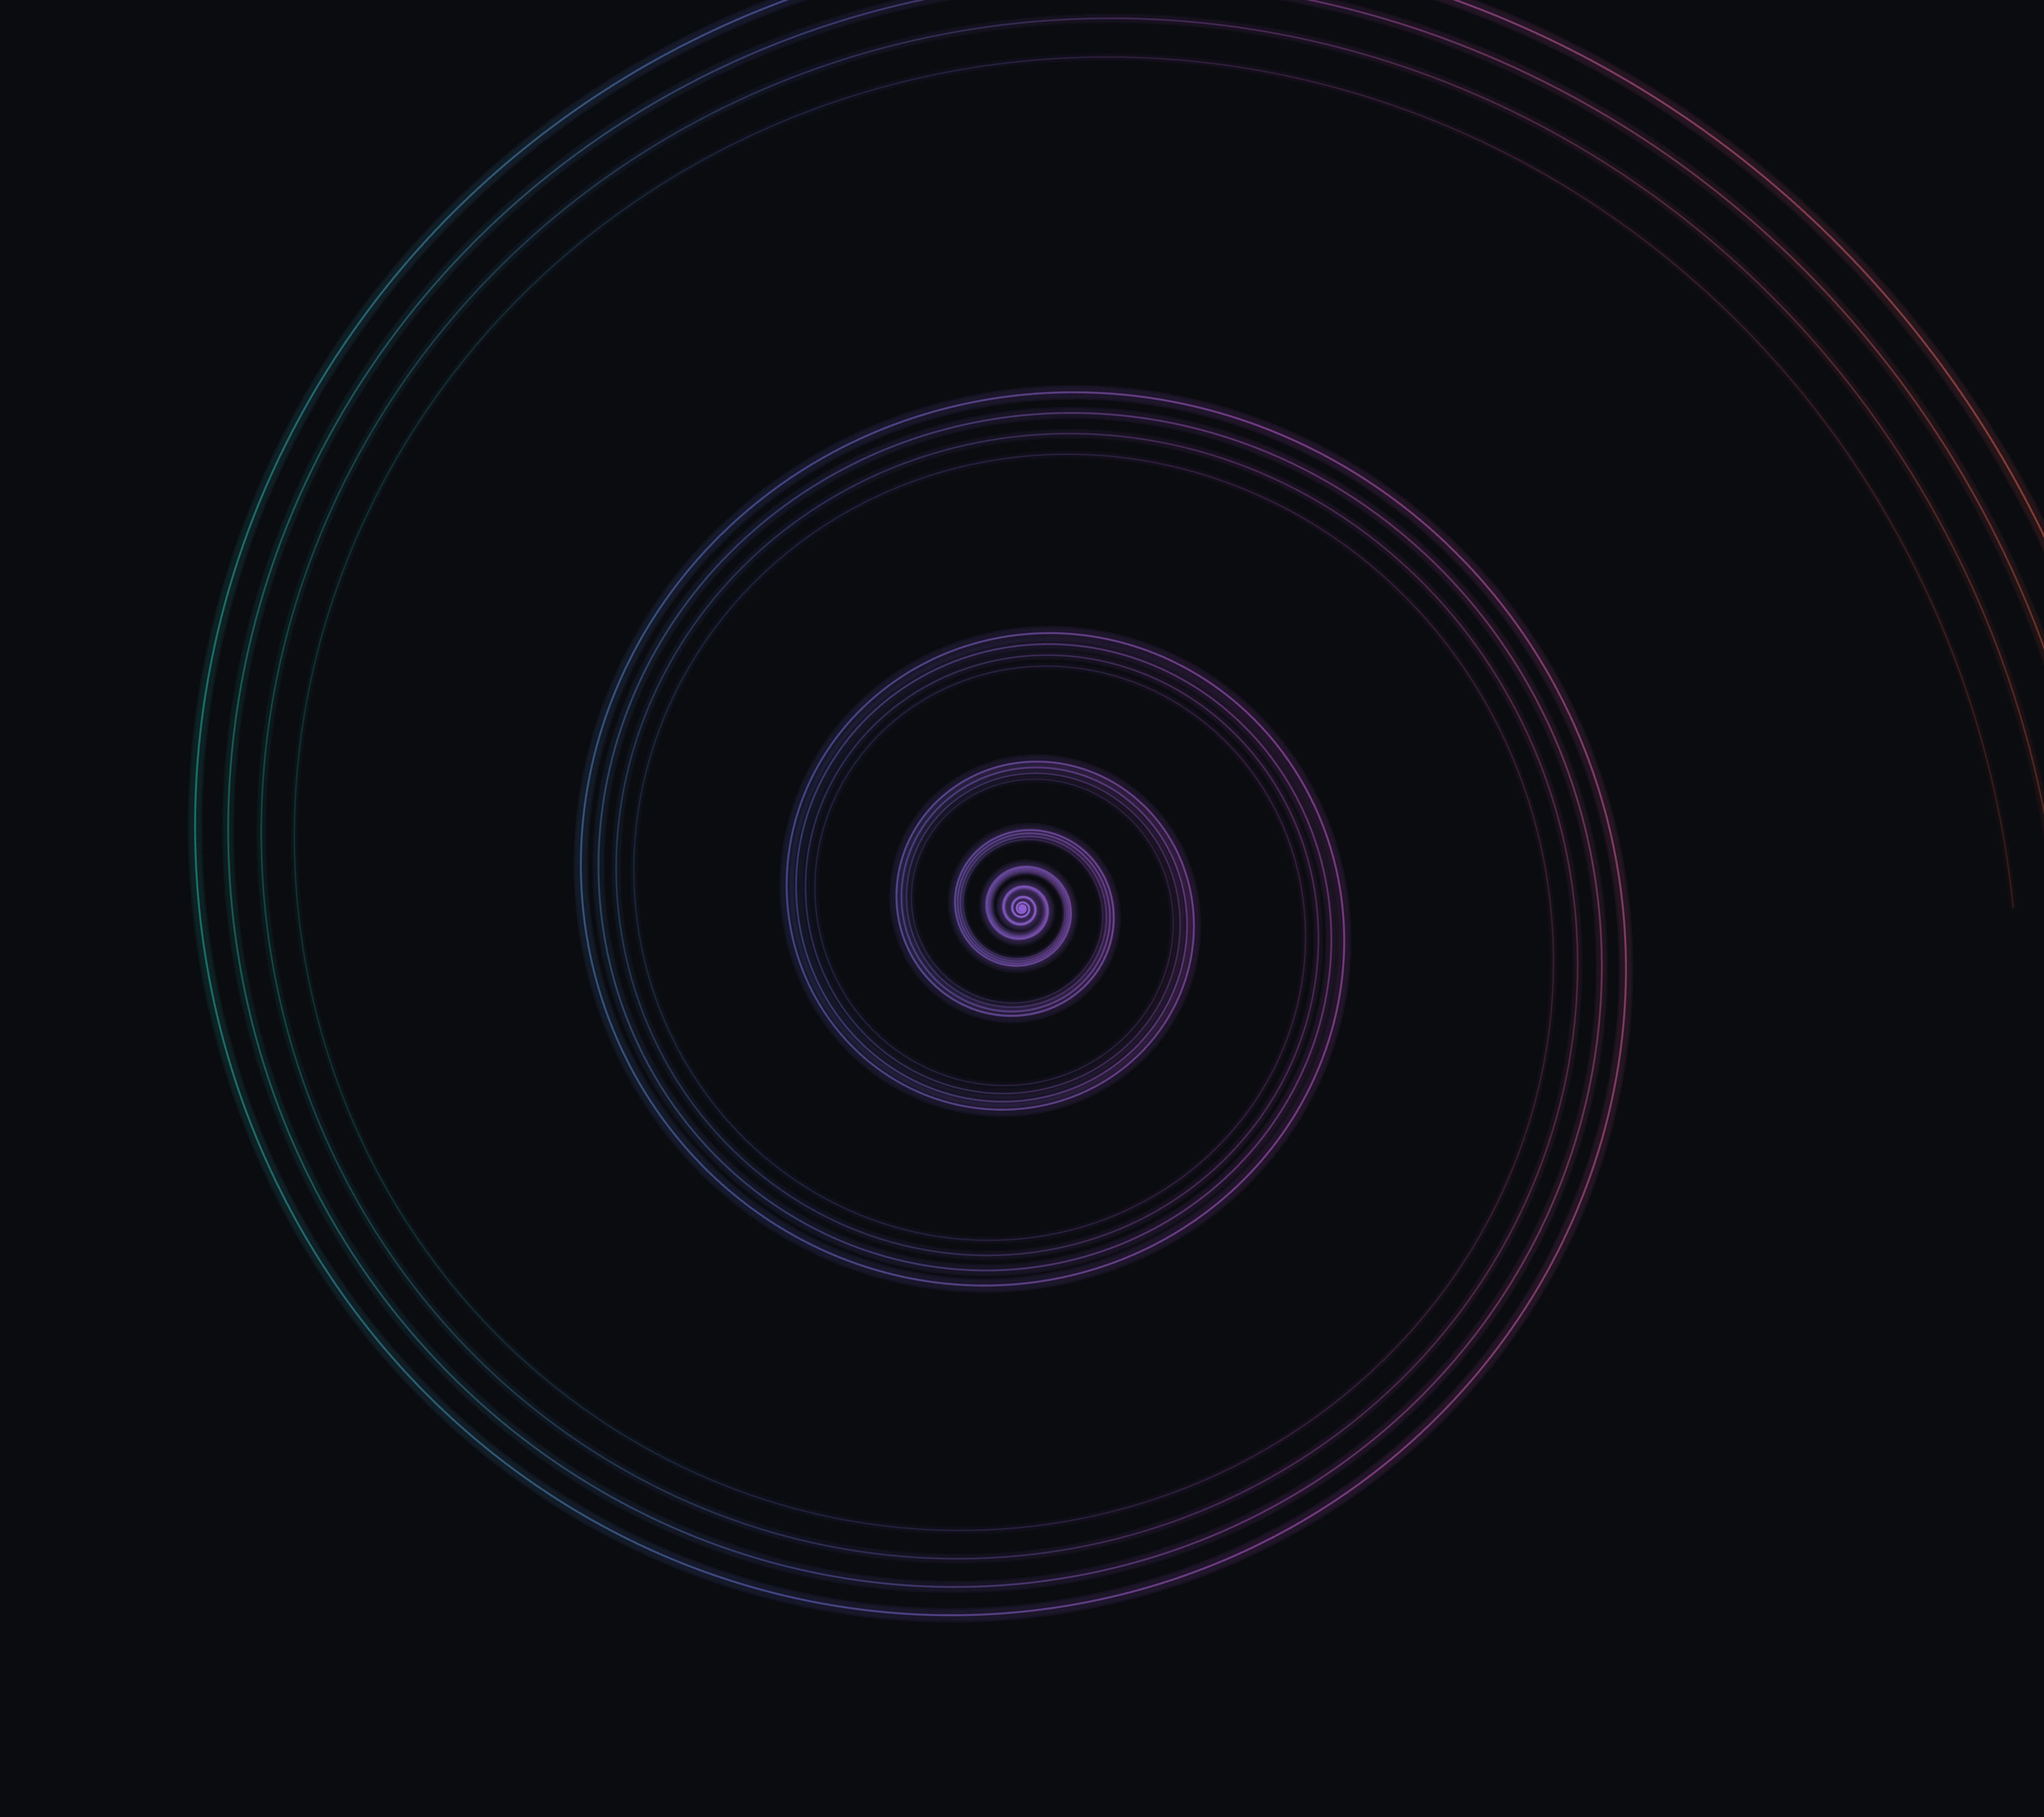
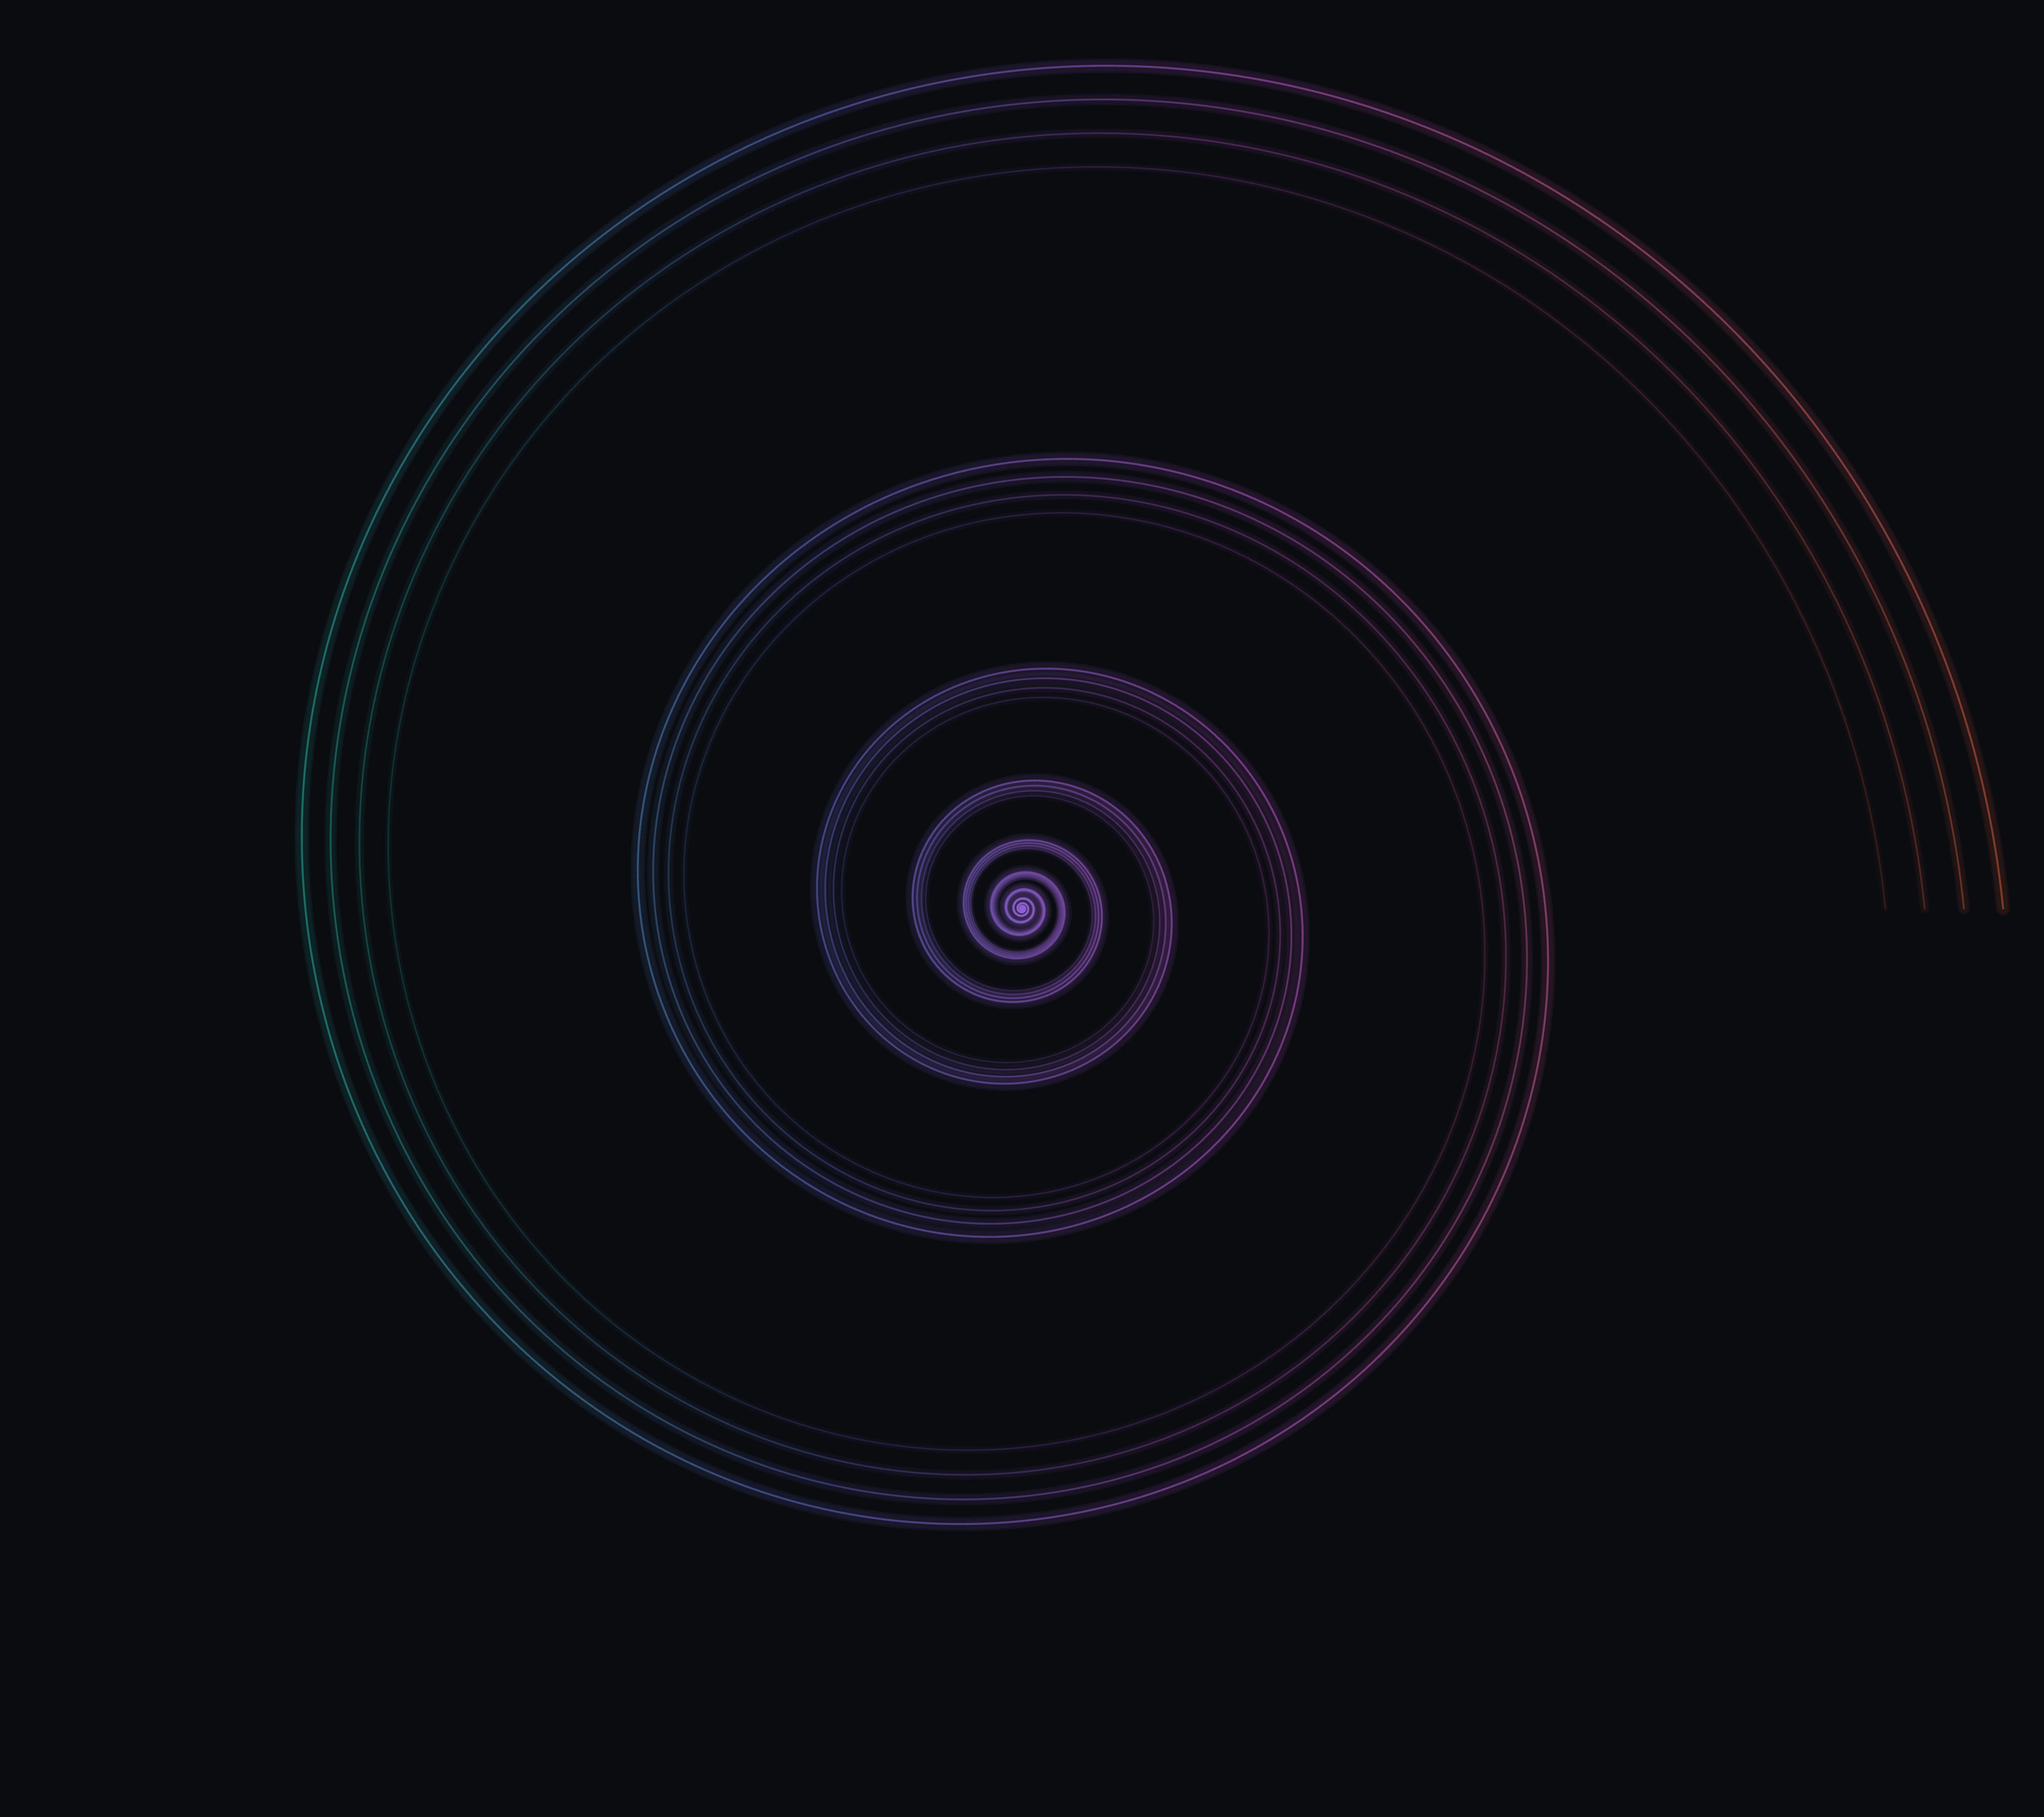
chore(assets): regenerate mobile spiral WebP with ~15% margin to prevent rotation clipping

diff --git a/scripts/generate-mobile-spiral.js b/scripts/generate-mobile-spiral.js
@@ -41,7 +41,8 @@ function svgMarkup(width, height) {
   const cy = height / 2;
   const totalTheta = Math.PI * 2 * SPIRAL.turns;
   const baseRadius = SPIRAL.a * Math.exp(SPIRAL.b * totalTheta);
-  const fit = 0.62;
+  // Add ~15% extra margin around the spiral for mobile rotation bleed
+  const fit = 0.54;
   const pixelScale = (Math.min(width, height) * fit) / baseRadius;
   const gradientStops = COLOR_STOPS.map((s) => `<stop offset="${s.stop * 100}%" stop-color="${s.color}" />`).join('');
 
